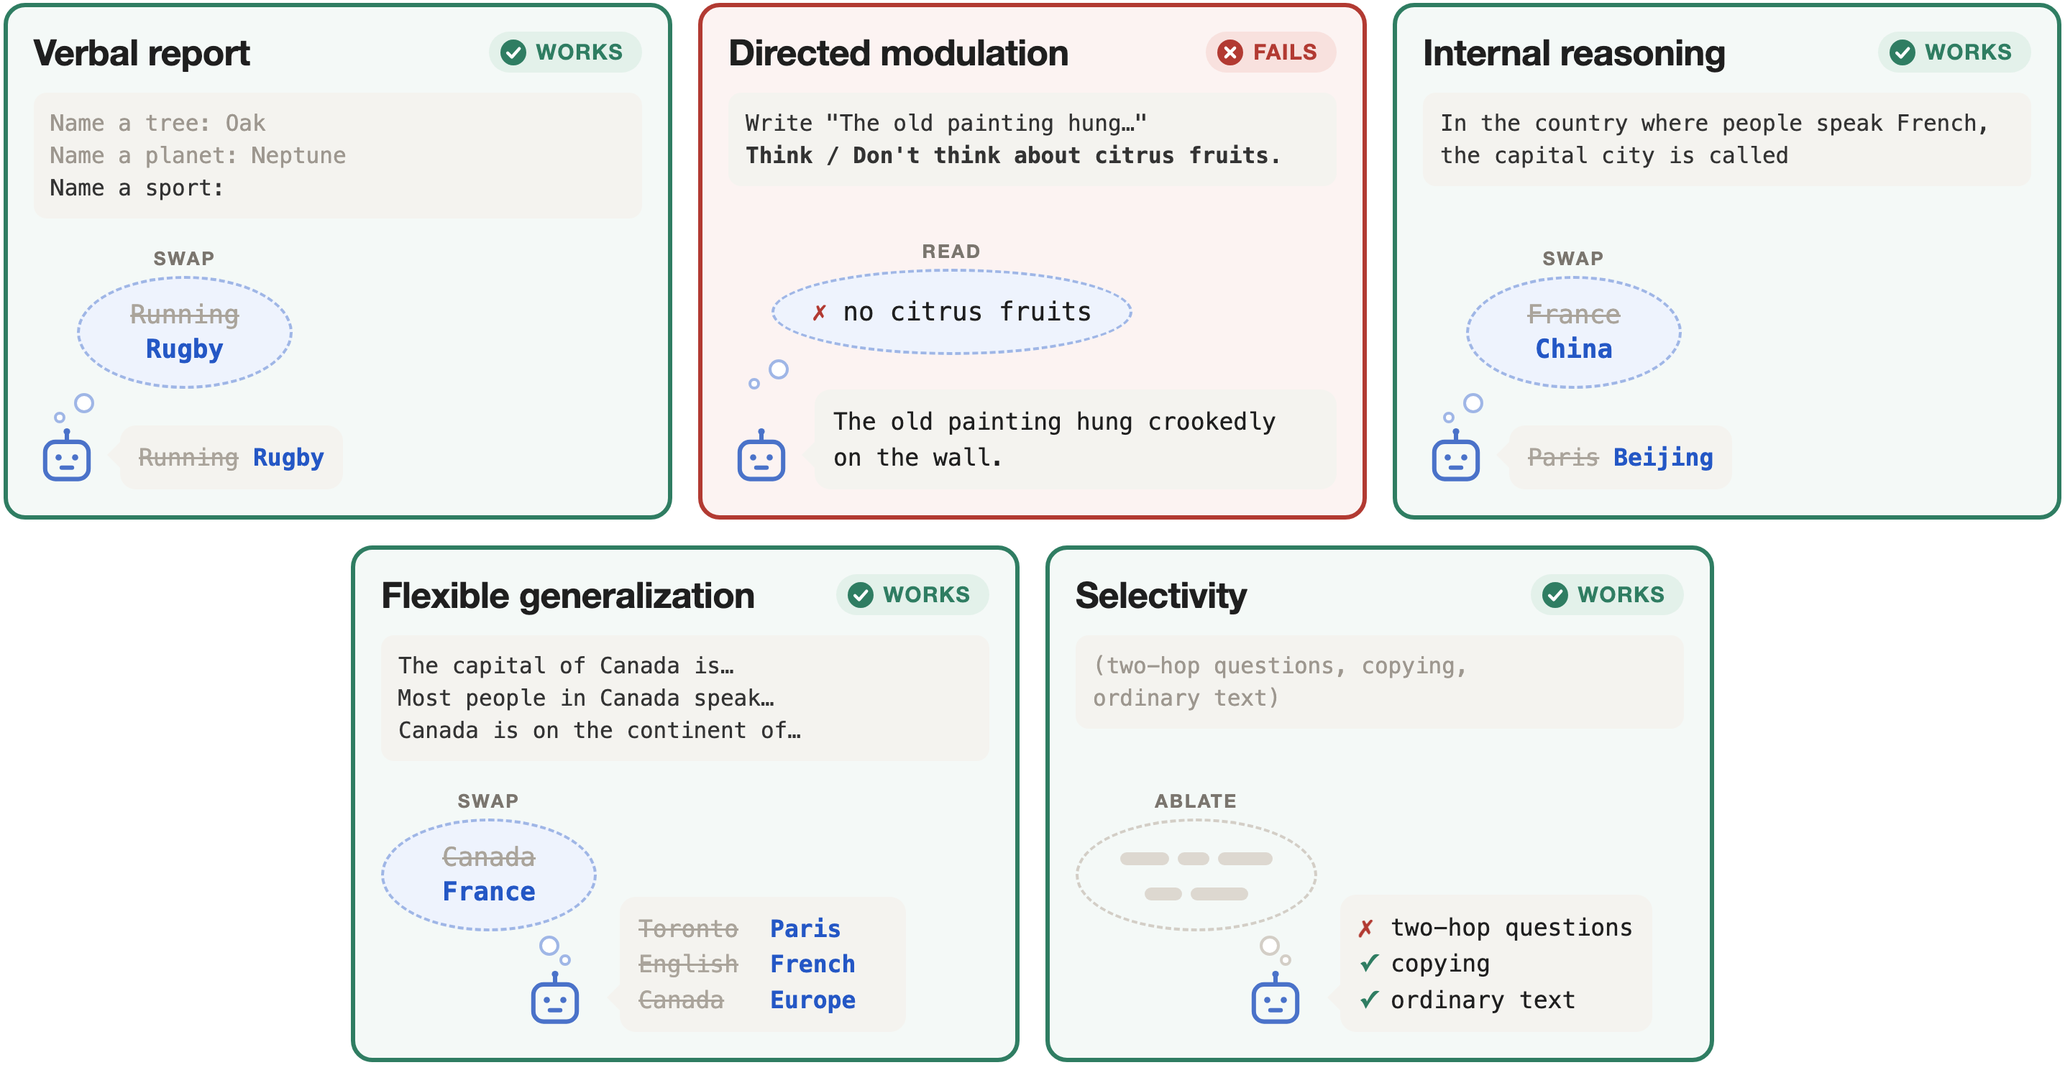
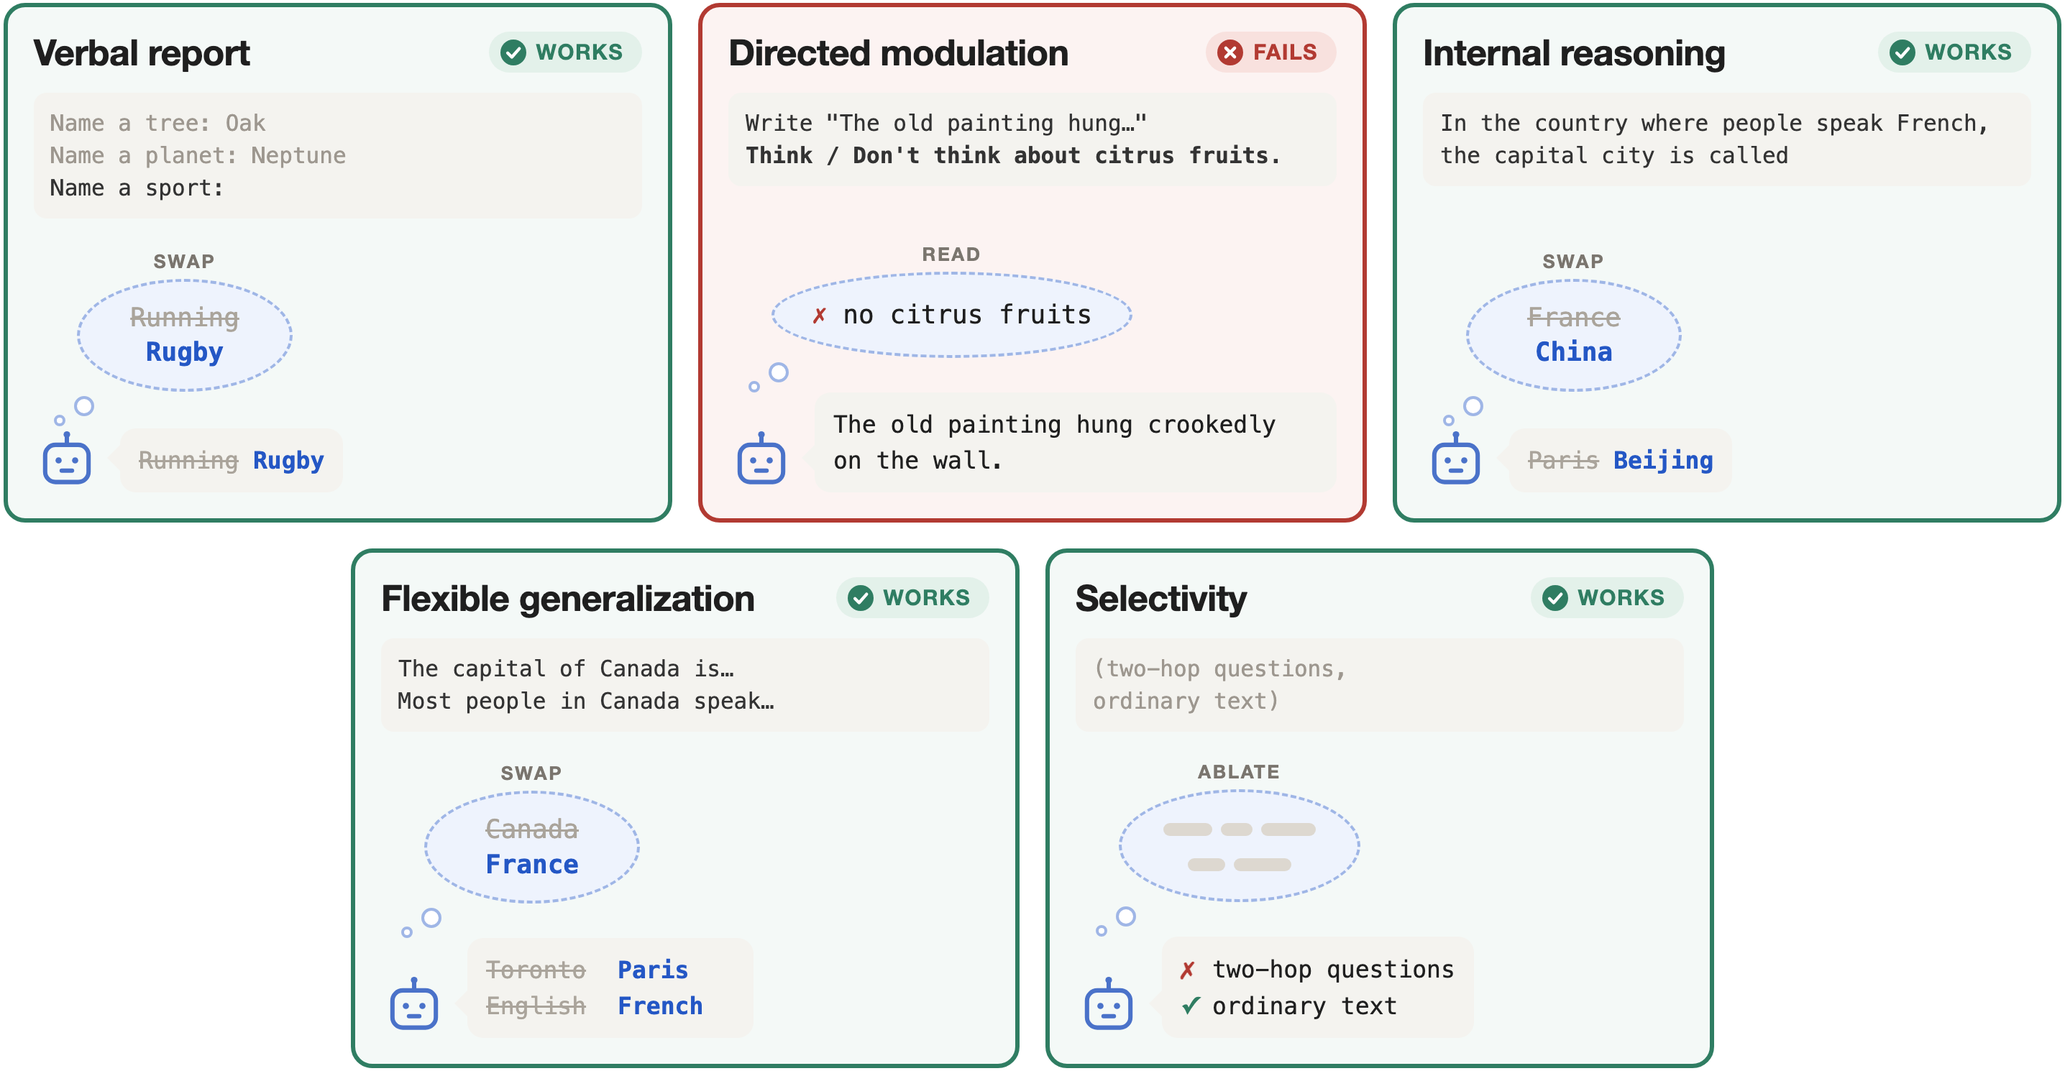
Cut the copying task from selectivity; Figure 1 bottom row in the top row's layout
- c5/followups: drop the copying (induction) task and its saved results; summary regenerated
- Figure 1: no copying, no continent row, same layout and height for both rows,
  Selectivity's ablated bubble blue like the others

diff --git a/post/fig1/fig1.html b/post/fig1/fig1.html
@@ -43,23 +43,14 @@
   .op { font-size: 13px; font-weight: 750; letter-spacing: 1.3px; color: var(--muted); margin-bottom: 4px; }
   .bubble { border: 2px dashed var(--acc-line); background: var(--acc-tint); border-radius: 50%; padding: 13px 26px; text-align: center; font-family: var(--mono); font-size: 18px; line-height: 1.35; min-width: 150px; min-height: 60px; display: flex; align-items: center; justify-content: center; }
   .bubble .x { font-weight: 800; }
-  .bubble.gone { background: none; border-color: #d3cec6; }
   .ph { display: inline-block; height: 9px; border-radius: 5px; background: #ddd8d0; margin: 0 3px; vertical-align: middle; }
   .trail { align-self: stretch; height: 24px; position: relative; }
   .trail i { position: absolute; border: 2px solid var(--acc-line); border-radius: 50%; background: var(--card); }
   .trail i:first-child { width: 14px; height: 14px; left: -2px; top: 3px; } .trail i:last-child { width: 8px; height: 8px; left: -16px; top: 16px; }
-  .bubble.gone + .trail i { border-color: #d3cec6; }
   .sayrow { display: flex; align-items: flex-end; gap: 14px; }
   .says { flex: 0 1 auto; background: var(--box); border-radius: 11px; padding: 10px 13px; font-family: var(--mono); font-size: 16.5px; line-height: 1.5; position: relative; }
   .says:before { content: ""; position: absolute; left: -9px; bottom: 15px; border: 9px solid transparent; border-right-color: var(--box); border-left: 0; }
   .says table { border-collapse: collapse; } .says td { padding: 0 22px 0 0; }
-  /* the bottom row: what it says goes beside the thought, the robot under the thought's right edge
-     (its answers are taller, so this keeps both rows the same height) */
-  .scene.side { flex-direction: row; align-items: flex-end; gap: 16px; }
-  .scene.side .lcol { display: flex; flex-direction: column; }
-  .scene.side .bw { margin-left: 0; }
-  .scene.side .lcol > svg { align-self: flex-end; margin-right: 6px; }
-  .scene.side .trail i:first-child { left: auto; right: 26px; } .scene.side .trail i:last-child { left: auto; right: 18px; }
 
   .spanel { display: grid; grid-template-columns: repeat(2, 1fr); gap: 26px; }
   .sp { background: var(--box); border-radius: 12px; padding: 14px 16px 14px; }
@@ -114,7 +105,7 @@ const robot = (s = 46) => `<svg width="${s}" height="${s}" viewBox="0 0 32 32" s
   <circle cx="12" cy="16.5" r="1.5" fill="var(--bot)" stroke="none"/><circle cx="20" cy="16.5" r="1.5" fill="var(--bot)" stroke="none"/>
   <line x1="13.5" y1="21.5" x2="18.5" y2="21.5"/></svg>`;
 // the thought bubble, with its trail of two circles down toward the robot
-const bubble = (op, body, cls = "") => `<div class="bw">${op ? `<div class="op">${op}</div>` : ""}<div class="bubble ${cls}"><div>${body}</div></div>
+const bubble = (op, body) => `<div class="bw">${op ? `<div class="op">${op}</div>` : ""}<div class="bubble"><div>${body}</div></div>
   <div class="trail"><i></i><i></i></div></div>`;
 const mk = (k, t) => `<span class="mk ${k}">${{ ok: "✓", x: "✗", mid: "~" }[k]}</span>${t}`;
 
@@ -132,15 +123,15 @@ const TESTS = [
     prompt: `In the country where people speak French, the capital city is called`,
     op: "SWAP", bub: `<s>France</s><br><em>China</em>`, says: `<s>Paris</s> <em>Beijing</em>` },
   { name: "Flexible generalization", v: "works",
-    prompt: `The capital of Canada is…\nMost people in Canada speak…\nCanada is on the continent of…`,
+    prompt: `The capital of Canada is…\nMost people in Canada speak…`,
     op: "SWAP", bub: `<s>Canada</s><br><em>France</em>`,
-    says: `<table><tr><td><s>Toronto</s></td><td><em>Paris</em></td></tr><tr><td><s>English</s></td><td><em>French</em></td></tr><tr><td><s>Canada</s></td><td><em>Europe</em></td></tr></table>` },
+    says: `<table><tr><td><s>Toronto</s></td><td><em>Paris</em></td></tr><tr><td><s>English</s></td><td><em>French</em></td></tr></table>` },
   { name: "Selectivity", v: "works",
-    prompt: `<span class="dim">(two-hop questions, copying,\nordinary text)</span>`,
+    prompt: `<span class="dim">(two-hop questions,\nordinary text)</span>`,
     // whatever is on top in the workspace, removed: redacted words
-    op: "ABLATE", bcls: "gone",
+    op: "ABLATE",
     bub: `<span class="ph" style="width:34px"></span><span class="ph" style="width:22px"></span><span class="ph" style="width:38px"></span><br><span class="ph" style="width:26px"></span><span class="ph" style="width:40px"></span>`,
-    says: `${mk("x", "two-hop questions")}<br>${mk("ok", "copying")}<br>${mk("ok", "ordinary text")}` },
+    says: `${mk("x", "two-hop questions")}<br>${mk("ok", "ordinary text")}` },
 ];
 const C25 = 25;
 const STRUCT = [
@@ -150,10 +141,8 @@ const STRUCT = [
 ];
 
 function figure(el) {
-  const card = (t, side) => {
-    const scene = side
-      ? `<div class="scene side"><div class="lcol">${bubble(t.op, t.bub, t.bcls)}${robot()}</div><div class="says">${t.says}</div></div>`
-      : `<div class="scene">${bubble(t.op, t.bub, t.bcls)}<div class="sayrow">${robot()}<div class="says">${t.says}</div></div></div>`;
+  const card = t => {
+    const scene = `<div class="scene">${bubble(t.op, t.bub)}<div class="sayrow">${robot()}<div class="says">${t.says}</div></div></div>`;
     return `<div class="card ${t.v}">
       <div class="head"><div class="title">${t.name}</div>${pill(t.v, t.label)}</div>
       <div class="prompt">${t.prompt}</div>${scene}</div>`;
@@ -164,11 +153,15 @@ function figure(el) {
         <div class="cap ${i ? "bad" : ""}">${i ? "✗ " : ""}${s.caps[i]}</div></div>`).join("")}</div></div>`;
   // #tests / #structure render one half; no hash renders both
   const part = location.hash.slice(1);
-  const tests = `<div class="row">${TESTS.slice(0, 3).map(t => card(t, false)).join("")}</div>
-    <div class="row">${TESTS.slice(3).map(t => card(t, true)).join("")}</div>`;
+  const tests = `<div class="row">${TESTS.slice(0, 3).map(card).join("")}</div>
+    <div class="row">${TESTS.slice(3).map(card).join("")}</div>`;
   const structure = `<div class="card no"><div class="head"><div class="title">The structure</div>${pill("no")}</div>
       <div class="spanel">${STRUCT.map(sp).join("")}</div></div>`;
   el.innerHTML = part === "tests" ? tests : part === "structure" ? structure : tests + structure;
+  // both rows the height of the tallest card
+  const cards = [...el.querySelectorAll(".row > .card")];
+  const h = Math.max(...cards.map(c => c.getBoundingClientRect().height));
+  cards.forEach(c => c.style.minHeight = `${h}px`);
 }
 figure(document.getElementById("fig"));
 

diff --git a/post/fig1/template.html b/post/fig1/template.html
@@ -43,23 +43,14 @@
   .op { font-size: 13px; font-weight: 750; letter-spacing: 1.3px; color: var(--muted); margin-bottom: 4px; }
   .bubble { border: 2px dashed var(--acc-line); background: var(--acc-tint); border-radius: 50%; padding: 13px 26px; text-align: center; font-family: var(--mono); font-size: 18px; line-height: 1.35; min-width: 150px; min-height: 60px; display: flex; align-items: center; justify-content: center; }
   .bubble .x { font-weight: 800; }
-  .bubble.gone { background: none; border-color: #d3cec6; }
   .ph { display: inline-block; height: 9px; border-radius: 5px; background: #ddd8d0; margin: 0 3px; vertical-align: middle; }
   .trail { align-self: stretch; height: 24px; position: relative; }
   .trail i { position: absolute; border: 2px solid var(--acc-line); border-radius: 50%; background: var(--card); }
   .trail i:first-child { width: 14px; height: 14px; left: -2px; top: 3px; } .trail i:last-child { width: 8px; height: 8px; left: -16px; top: 16px; }
-  .bubble.gone + .trail i { border-color: #d3cec6; }
   .sayrow { display: flex; align-items: flex-end; gap: 14px; }
   .says { flex: 0 1 auto; background: var(--box); border-radius: 11px; padding: 10px 13px; font-family: var(--mono); font-size: 16.5px; line-height: 1.5; position: relative; }
   .says:before { content: ""; position: absolute; left: -9px; bottom: 15px; border: 9px solid transparent; border-right-color: var(--box); border-left: 0; }
   .says table { border-collapse: collapse; } .says td { padding: 0 22px 0 0; }
-  /* the bottom row: what it says goes beside the thought, the robot under the thought's right edge
-     (its answers are taller, so this keeps both rows the same height) */
-  .scene.side { flex-direction: row; align-items: flex-end; gap: 16px; }
-  .scene.side .lcol { display: flex; flex-direction: column; }
-  .scene.side .bw { margin-left: 0; }
-  .scene.side .lcol > svg { align-self: flex-end; margin-right: 6px; }
-  .scene.side .trail i:first-child { left: auto; right: 26px; } .scene.side .trail i:last-child { left: auto; right: 18px; }
 
   .spanel { display: grid; grid-template-columns: repeat(2, 1fr); gap: 26px; }
   .sp { background: var(--box); border-radius: 12px; padding: 14px 16px 14px; }
@@ -114,7 +105,7 @@ const robot = (s = 46) => `<svg width="${s}" height="${s}" viewBox="0 0 32 32" s
   <circle cx="12" cy="16.5" r="1.5" fill="var(--bot)" stroke="none"/><circle cx="20" cy="16.5" r="1.5" fill="var(--bot)" stroke="none"/>
   <line x1="13.5" y1="21.5" x2="18.5" y2="21.5"/></svg>`;
 // the thought bubble, with its trail of two circles down toward the robot
-const bubble = (op, body, cls = "") => `<div class="bw">${op ? `<div class="op">${op}</div>` : ""}<div class="bubble ${cls}"><div>${body}</div></div>
+const bubble = (op, body) => `<div class="bw">${op ? `<div class="op">${op}</div>` : ""}<div class="bubble"><div>${body}</div></div>
   <div class="trail"><i></i><i></i></div></div>`;
 const mk = (k, t) => `<span class="mk ${k}">${{ ok: "✓", x: "✗", mid: "~" }[k]}</span>${t}`;
 
@@ -132,15 +123,15 @@ const TESTS = [
     prompt: `In the country where people speak French, the capital city is called`,
     op: "SWAP", bub: `<s>France</s><br><em>China</em>`, says: `<s>Paris</s> <em>Beijing</em>` },
   { name: "Flexible generalization", v: "works",
-    prompt: `The capital of Canada is…\nMost people in Canada speak…\nCanada is on the continent of…`,
+    prompt: `The capital of Canada is…\nMost people in Canada speak…`,
     op: "SWAP", bub: `<s>Canada</s><br><em>France</em>`,
-    says: `<table><tr><td><s>Toronto</s></td><td><em>Paris</em></td></tr><tr><td><s>English</s></td><td><em>French</em></td></tr><tr><td><s>Canada</s></td><td><em>Europe</em></td></tr></table>` },
+    says: `<table><tr><td><s>Toronto</s></td><td><em>Paris</em></td></tr><tr><td><s>English</s></td><td><em>French</em></td></tr></table>` },
   { name: "Selectivity", v: "works",
-    prompt: `<span class="dim">(two-hop questions, copying,\nordinary text)</span>`,
+    prompt: `<span class="dim">(two-hop questions,\nordinary text)</span>`,
     // whatever is on top in the workspace, removed: redacted words
-    op: "ABLATE", bcls: "gone",
+    op: "ABLATE",
     bub: `<span class="ph" style="width:34px"></span><span class="ph" style="width:22px"></span><span class="ph" style="width:38px"></span><br><span class="ph" style="width:26px"></span><span class="ph" style="width:40px"></span>`,
-    says: `${mk("x", "two-hop questions")}<br>${mk("ok", "copying")}<br>${mk("ok", "ordinary text")}` },
+    says: `${mk("x", "two-hop questions")}<br>${mk("ok", "ordinary text")}` },
 ];
 const C25 = 25;
 const STRUCT = [
@@ -150,10 +141,8 @@ const STRUCT = [
 ];
 
 function figure(el) {
-  const card = (t, side) => {
-    const scene = side
-      ? `<div class="scene side"><div class="lcol">${bubble(t.op, t.bub, t.bcls)}${robot()}</div><div class="says">${t.says}</div></div>`
-      : `<div class="scene">${bubble(t.op, t.bub, t.bcls)}<div class="sayrow">${robot()}<div class="says">${t.says}</div></div></div>`;
+  const card = t => {
+    const scene = `<div class="scene">${bubble(t.op, t.bub)}<div class="sayrow">${robot()}<div class="says">${t.says}</div></div></div>`;
     return `<div class="card ${t.v}">
       <div class="head"><div class="title">${t.name}</div>${pill(t.v, t.label)}</div>
       <div class="prompt">${t.prompt}</div>${scene}</div>`;
@@ -164,11 +153,15 @@ function figure(el) {
         <div class="cap ${i ? "bad" : ""}">${i ? "✗ " : ""}${s.caps[i]}</div></div>`).join("")}</div></div>`;
   // #tests / #structure render one half; no hash renders both
   const part = location.hash.slice(1);
-  const tests = `<div class="row">${TESTS.slice(0, 3).map(t => card(t, false)).join("")}</div>
-    <div class="row">${TESTS.slice(3).map(t => card(t, true)).join("")}</div>`;
+  const tests = `<div class="row">${TESTS.slice(0, 3).map(card).join("")}</div>
+    <div class="row">${TESTS.slice(3).map(card).join("")}</div>`;
   const structure = `<div class="card no"><div class="head"><div class="title">The structure</div>${pill("no")}</div>
       <div class="spanel">${STRUCT.map(sp).join("")}</div></div>`;
   el.innerHTML = part === "tests" ? tests : part === "structure" ? structure : tests + structure;
+  // both rows the height of the tallest card
+  const cards = [...el.querySelectorAll(".row > .card")];
+  const h = Math.max(...cards.map(c => c.getBoundingClientRect().height));
+  cards.forEach(c => c.style.minHeight = `${h}px`);
 }
 figure(document.getElementById("fig"));
 

diff --git a/jl/c5_selectivity.py b/jl/c5_selectivity.py
@@ -28,7 +28,6 @@ Run:  python -m jl.c5_selectivity             (the criterion)
 from __future__ import annotations
 
 import json
-import random
 import textwrap
 
 import torch
@@ -51,13 +50,12 @@ S1_WIDTHS = (768, 1536, 3072, 6144)     # synthetic: K random directions vs a ra
 # Prompt material for criterion 5 (selectivity): the paper's §3.5.
 #
 # Selectivity says the J-space is required for *flexible* cognition (report, multi-step inference)
-# but not for *automatic* processing (parsing, copying, one-step recall).  We test this three ways.
+# but not for *automatic* processing (parsing, one-step recall).  We test this three ways.
 #
 # S2a  J-space ablation battery (§3.5.2, Fig 22/24).  We ablate the top-k J-space directions and
 #      watch a battery of tasks split by how much they depend on assembling inferred content:
 #        - two-hop reasoning  (flexible)  -- criterion 3's task, the paper's own multihop control
 #        - one-hop recall     (recall)    -- the same country facts, one hop
-#        - induction / copy   (automatic) -- copy a token seen earlier in the context
 #        - next-token match   (automatic) -- agreement with the clean model on wikitext prose
 #      The two-hop items and their country table ARE criterion 3's, imported verbatim so the
 #      positive control is exactly the task c3 validated (48/53 answered).
@@ -84,13 +82,6 @@ ONE_HOP = {
     "language": ("The main language of Egypt is Arabic. The main language of Japan is Japanese. "
                  "The main language of {country} is", "language"),
 }
-
-# induction / copying: a novel token pair, then filler, then the cue token -> copy its partner.
-INDUCTION_POOL = [" apple", " river", " tiger", " velvet", " harbor", " maple", " copper",
-                  " cat", " dog", " house", " water", " fire", " gold", " king", " book",
-                  " tree", " star", " moon", " road", " door", " ship", " lake", " wolf",
-                  " bear", " iron", " glass", " stone", " cloud", " forest", " garden"]
-INDUCTION_FILLER = " The quick brown fox jumps over the lazy dog."
 
 
 def two_hop_items(lm):
@@ -126,23 +117,6 @@ def one_hop_items(lm):
             if int(lm.logits(ids)[-1].argmax()) == lm.tid(" " + ans):
                 items.append(dict(text=tmpl.format(country=c), ids=ids, answer=ans,
                                   ans_id=lm.tid(" " + ans)))
-    return items
-
-
-def induction_items(lm, n=40, seed=1):
-    """Copy the partner of a repeated token; gated to greedy-correct (pure induction)."""
-    rng = random.Random(seed)
-    pool = [w for w in INDUCTION_POOL if lm.is_single(w)]  # the lens/copy target must be one token
-    items, tries = [], 0
-    while len(items) < n and tries < 400:
-        tries += 1
-        a, b = rng.sample(pool, 2)
-        text = f"{a}{b}{INDUCTION_FILLER}{a}"
-        ids = lm.encode(text)
-        if int(lm.logits(ids)[-1].argmax()) == lm.tid(b):
-            items.append(dict(text=text, ids=ids, answer=b, ans_id=lm.tid(b)))
-        if len(items) >= n:
-            break
     return items
 
 
@@ -209,13 +183,11 @@ def pursuit_curve(x, V, kmax):
 def battery(lm):
     """Task score under no ablation / J-space ablation / matched-norm random control, per
     strength.  Accuracy tasks score 0/1 per item; pretraining scores per-position top-1 match."""
-    two, one, ind = two_hop_items(lm), one_hop_items(lm), induction_items(lm)
+    two, one = two_hop_items(lm), one_hop_items(lm)
     paras = pretraining_paragraphs()
-    tasks = [("two_hop", two, "flexible"), ("one_hop", one, "recall"),
-             ("induction", ind, "automatic")]
+    tasks = [("two_hop", two, "flexible"), ("one_hop", one, "recall")]
 
-    out = {"counts": {"two_hop": len(two), "one_hop": len(one), "induction": len(ind),
-                      "paras": len(paras)}, "acc": [], "pretrain": []}
+    out = {"counts": {"two_hop": len(two), "one_hop": len(one), "paras": len(paras)}, "acc": [], "pretrain": []}
 
     # row[f"{strength}_J_k{k}"] = score under the J ablation; row[f"{strength}_R_k{k}"] = the
     # matched-norm random control's score, one per seed
@@ -256,7 +228,7 @@ def battery(lm):
     out["pretrain"] = prow
     print(prow, flush=True)
     return out, {"two_hop": [it["text"] for it in two[:3]], "one_hop": [it["text"] for it in one[:3]],
-                 "induction": [it["text"] for it in ind[:3]], "pretrain": paras[0][:200]}
+                 "pretrain": paras[0][:200]}
 
 
 # =============================================================================== S2b language
@@ -514,8 +486,7 @@ def summarize(out) -> str:
     L = ["Criterion 5 -- selectivity -- gpt2-small", f"band {out['band']}"]
     b = out["battery"]
     c = b["counts"]
-    L.append(f"\nS2a ablation battery  (n: two-hop {c['two_hop']}, one-hop {c['one_hop']}, "
-             f"induction {c['induction']}, wikitext paras {c['paras']})")
+    L.append(f"\nS2a ablation battery  (n: two-hop {c['two_hop']}, one-hop {c['one_hop']}, wikitext paras {c['paras']})")
     for k in KS_ABLATE:
         L.append(f"  k = {k} ({'scaled to GPT-2 occupancy' if k == K_ABLATE else 'the paper'}): task score, "
                  f"no ablation | J-space ablation (matched-norm random control, min-max over {len(SEEDS)} seeds), per strength")

diff --git a/jl/followups.py b/jl/followups.py
@@ -47,12 +47,10 @@ def protect():
     Also records, per task and layer, how often the protection rule changes which directions are
     ablated: the fraction of items whose lens top-10 (at the scored position) contains a token from
     the clean output top-10, and the lens rank of the answer token itself."""
-    from jl.c5_selectivity import (KS_ABLATE, induction_items, one_hop_items, pretraining_paragraphs,
-                                   two_hop_items)
+    from jl.c5_selectivity import KS_ABLATE, one_hop_items, pretraining_paragraphs, two_hop_items
     lm = jl.Lensed()
     strengths = {"light": [8], "medium": [7, 8, 9]}
-    tasks = [("two_hop", two_hop_items(lm)), ("one_hop", one_hop_items(lm)),
-             ("induction", induction_items(lm))]
+    tasks = [("two_hop", two_hop_items(lm)), ("one_hop", one_hop_items(lm))]
     paras = pretraining_paragraphs()
     out = dict(strengths=strengths, ks=list(KS_ABLATE), rows=[], overlap=[])
 
@@ -124,11 +122,11 @@ def protect():
         lines.append(f"  {r['task']:15s}{r['strength']:8s}{r['k']:3d}{r['n']:4d}   {r['J_protect10']:.2f}    {r['R_protect10']:.2f}      "
                      f"{r['J_protect0']:.2f}    {r['R_protect0']:.2f}")
     lines.append("  how often the rule fires (lens top-10 meets output top-10) at the scored position:")
-    for task in ("two_hop", "one_hop", "induction", "pretrain_match"):
+    for task in ("two_hop", "one_hop", "pretrain_match"):
         cells = [o for o in out["overlap"] if o["task"] == task]
         lines.append(f"    {task:15s} " + " ".join(f"L{o['layer']}:{o['fires']:.2f}" for o in cells))
     lines.append("  answer token's median lens rank at the scored position:")
-    for task in ("two_hop", "one_hop", "induction"):
+    for task in ("two_hop", "one_hop"):
         cells = [o for o in out["overlap"] if o["task"] == task]
         lines.append(f"    {task:15s} " + " ".join(f"L{o['layer']}:{o['answer_lens_rank_median']}" for o in cells))
     print("\n".join(lines))
